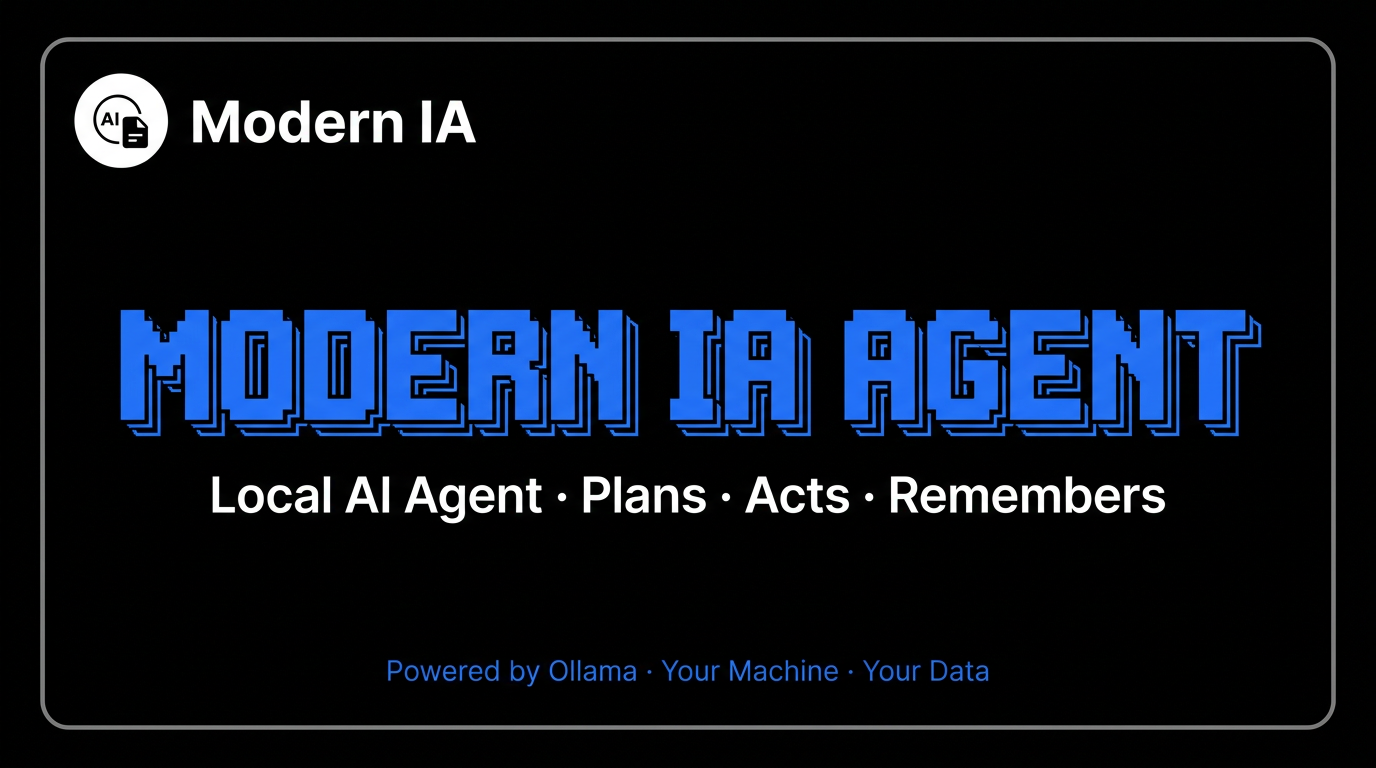
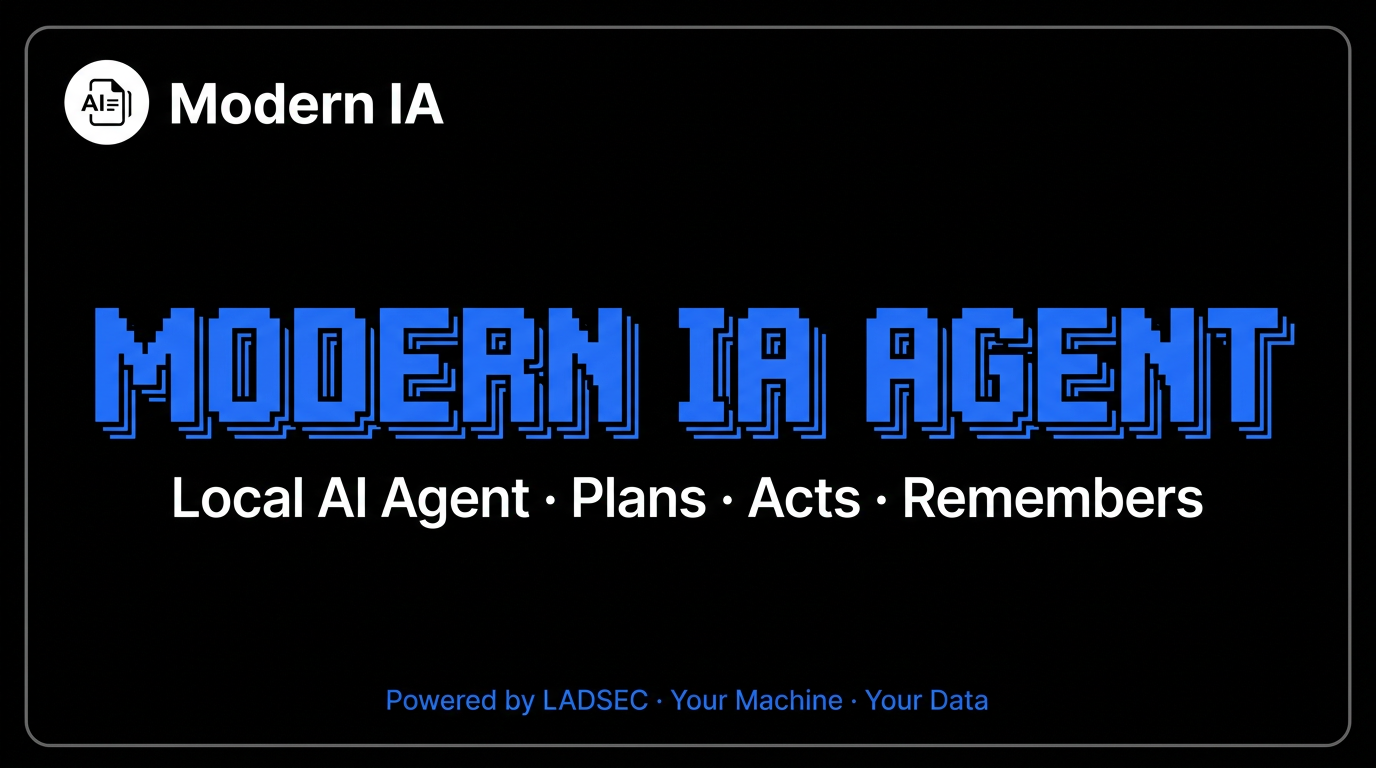
The agent is ready

Changed region(s): [[0.0, 0.0312, 1.0, 1.0], [0.125, 0.625, 0.875, 0.6875]]

diff --git a/README.md b/README.md
@@ -1,11 +1,11 @@
 <div align="center">
 
-<img src="assets/banner.png" alt="Modern IA Agent — local planner and file agent powered by Ollama" width="100%" />
+<img src="assets/banner.png" alt="Modern IA Agent — local planner and file agent powered by LADSEC" width="100%" />
 
 # Modern IA Agent
 
 **Your goals. Your files. Your GPU.**  
-A **local-first** AI agent that **plans**, **acts** on your filesystem, and **remembers**—powered by [Ollama](https://ollama.com/), with **no cloud LLM required**.
+An AI agent that **plans**, **acts** on your filesystem, and **remembers**—powered by [Ollama](https://ollama.com/), with **no cloud LLM required**.
 
 [![Python 3.10+](https://img.shields.io/badge/python-3.10+-3776AB?style=flat&logo=python&logoColor=white)](https://www.python.org/)
 [![Ollama](https://img.shields.io/badge/Ollama-local%20LLM-111111?style=flat)](https://ollama.com/)
